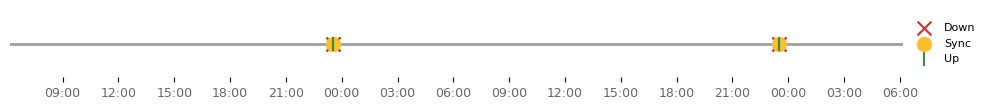
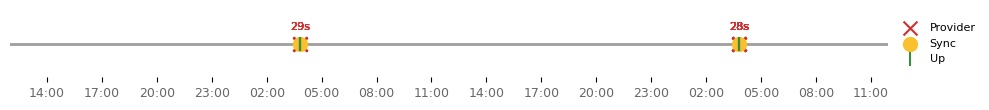
Vorschaubilder im README ergänzt

diff --git a/README.md b/README.md
@@ -37,14 +37,18 @@ Ein Set aus Python-Skripten (`vx-info.py`) zur automatisierten Erfassung und Dar
 * Datenabruf von DSL-Werten und der verbundenen Clients via SNMP, Telnet und Web-Scraping
 * Speicherung der Daten in einer Datenbank
 * Automatisierte Generierung von HTML-Statusreports
+  <br>
+  <img src="images/beispiel-statusreport-sml.jpg" alt="Vorschau Statusreport">
   <details>
-      <summary>Beispiel: Statusreport</summary>
+      <summary>Aufklappen für vollständigen Statusreport</summary>
       <br>
       <img src="images/beispiel-statusreport.jpg" alt="Beispiel Statusreport">
   </details>
 * Lokales Browser-Dashboard zur Visualisierung
+  <br>
+  <img src="images/beispiel-dashboard-sml.jpg" alt="Vorschau Dashboard">
   <details>
-      <summary>Beispiel: Dashboard</summary>
+      <summary>Aufklappen für vollständiges Dashboard</summary>
       <br>
       <img src="images/beispiel-dashboard.jpg" alt="Beispiel Browser-Dashboard">
   </details>

diff --git a/docs/release-notes.md b/docs/release-notes.md
@@ -1,5 +1,14 @@
 ## Changelog / Updates
 
+### 11.03.2026
+
+* **Log-Verarbeitung & Rsyslog**
+  * Router-Logs können alternativ und performanter ohne GUI-Scraping über einen lokalen Syslog-Server (rsyslog) eingelesen werden.
+  * Loglevel-Anpassung: Das Level für rsyslog-Events ist nun `8`, während für interne Statistik-Events das virtuelle Level `9` eingeführt wurde.
+
+* **Statusreport**
+  * Das Eventlog im Report zeigt die gewählte Filterstufe an.
+
 ### 08.03.2026
 
 * **Statusreport**
